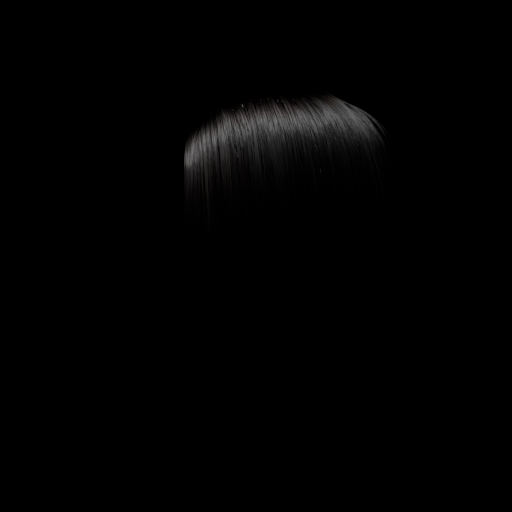
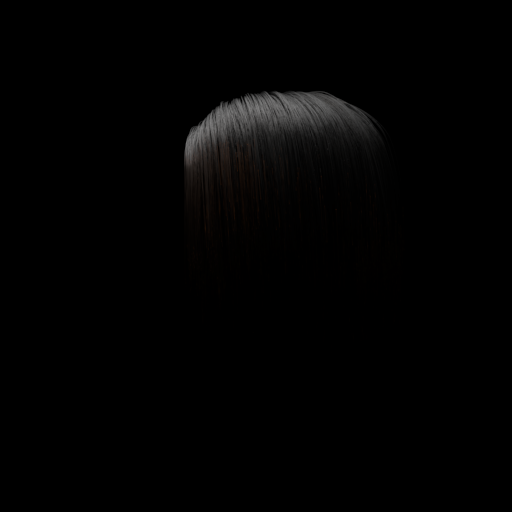
Added wrapping of gamma roots around domain. Looks like its working except for some glints, possibly to do with second derivative or parameters

Changed region(s): [[0.3438, 0.1562, 0.7188, 0.3438]]

diff --git a/src/pbrt/materials/marschner.cpp b/src/pbrt/materials/marschner.cpp
@@ -383,11 +383,12 @@ namespace pbrt {
         // This succeeds, so it means even when range bounding d, the roots still solve for
         // for the original phi values. Next step is to check whether range bounding gammaI
         // between [-pi/2, pi/2] also gives the correct results
-        //        for (int i = 0; i < numberRoots; ++i) {
-        //            Float gammaI = RangeBoundGamma(gammaRoots[i]);
-        //
-        //            //CHECK_NEAR(ClampPhi(Phi(p, gammaI, GammaT(gammaI, etaPerp)) - phi), 0.0, 0.3);
-        //        }
+        for (int i = 0; i < numberRoots; ++i) {
+            Float gammaI = RangeBoundGamma(gammaRoots[i]);
+            gammaRoots[i] = gammaI;
+
+            //CHECK_NEAR(ClampPhi(Phi(p, gammaI, GammaT(gammaI, etaPerp)) - phi), 0.0, 0.3);
+        }
 
         //assure roots are within range
         //        for (int i = 0; i < numberRoots; ++i) {
@@ -435,6 +436,18 @@ namespace pbrt {
         Float b = 6.0 * p * c / Pi - 2.0;
 
         return (-3.0 * a * gammaI * gammaI + b) / SafeSqrt(1.0 - SineSquared(gammaI));
+    }
+
+    /**
+     * Second derivative of root function
+     * @param p
+     * @param gammaI
+     * @param etaPerp
+     * @return
+     */
+    static Float DPhi2Dh2(int p, Float gammaI, Float etaPerp) {
+        //TODO: implement second derivative
+        return 1.0;
     }
 
     /*******************************
@@ -596,7 +609,7 @@ namespace pbrt {
 
             Spectrum T = Transmittance(mSigmaA, gammaT, cosThetaT);
             Spectrum Absorption = Sqr(1.0 - fresnel) * fresnelI * T * T;
-            Spectrum L = Absorption / (fabs(2.0 * DPhiDh(ScatteringMode::TRT, gammaI, etaPerp)));
+            Spectrum L = Absorption / (fabs(2.0 * DPhiDh(2, gammaI, etaPerp)));
 
             if (etaPerp < 2.0) {
                 // root for caustic is (hc or -hc)
@@ -605,11 +618,8 @@ namespace pbrt {
                 Float gammaTC = GammaT(gammaC, etaPerp);
                 phiC = Phi(2, gammaI, gammaTC);
 
-                //TODO: Check if this is correct
-                Float squaredDPhiDH = Sqr(DPhiDh(2, gammaC, etaPerp));
-                //Float squaredDPhiDH = Sqr(DPhiDh(2, gammaC*gammaC));
-
-                causticIntensity = std::min(mCausticIntensityLimit, (Float) (2.0 * sqrt(2.0 * mCausticWidth / fabs(squaredDPhiDH))));
+                causticIntensity = std::min(mCausticIntensityLimit,
+                        (Float) (2.0 * sqrt(2.0 * mCausticWidth / fabs(DPhi2Dh2(2, gammaI, etaPerp)))));
                 t = 1.0;
             } else {
                 phiC = 0.0;
